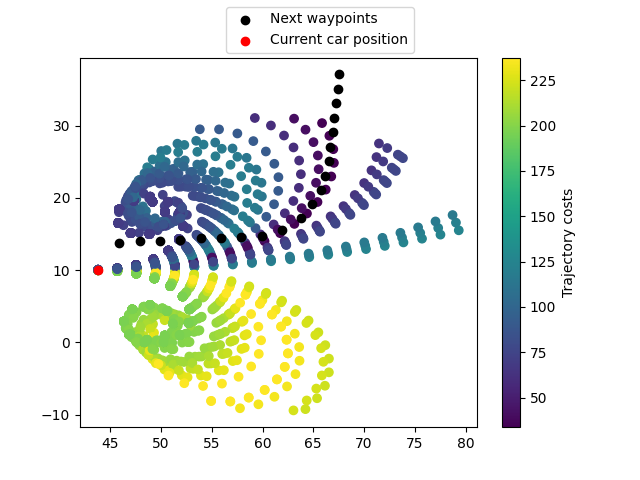
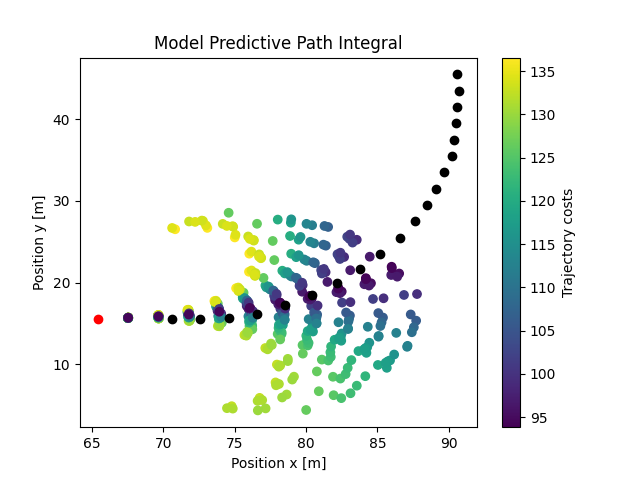
weighted avg solution plot

diff --git a/multi_step_mpc.py b/multi_step_mpc.py
@@ -1,33 +1,23 @@
 import numpy as np
-
-from cycler import cycler
 import math
-import matplotlib.pyplot as plt
-from scipy.interpolate import interp1d
-
 from car import Car
 from track import Track
 from constants import *
+import matplotlib.pyplot as plt
+# a = [1,2,3,4,5,6]
+# a.extend(a)
+# print(a)
 
-import shapely.geometry as geom
+# exit()
 
 def column(matrix, i):
         return [row[i] for row in matrix]
         
 
-# coords = [[coords_x[i], coords_y[i]] for i in range(len(coords_x))]
-# print(coords)
-# # coords = [[1,1], [2,1], [3,1]] 
-# line = geom.LineString(coords)
-# point = geom.Point(5,3)
-# print (point.distance(line))
 
-# exit()
-
-
-COVARIANCE = [[0.1, 0], [0, 0]] 
+COVARIANCE = [[0.1, 0], [0, 0.05]] 
 NUMBER_OF_TRAJECTORIES = 50
-DIST_TOLLERANCE = 8
+DIST_TOLLERANCE = 4
 
 
 def sample_control_inputs(control_input):
@@ -37,7 +27,7 @@ def sample_control_inputs(control_input):
 
     control_input_sequences = [0]*len(x)
     for i in range(len(x)):
-        control_input_sequences[i] = 20*[[round(x[i],3), round(y[i], 3)]]
+        control_input_sequences[i] = 10*[[round(x[i],3), round(y[i], 3)]]
     return control_input_sequences
 
 
@@ -63,7 +53,7 @@ last_control_input = [0,0]
 
 for i in range(200):
 
-    input_samples = u_dist
+    # input_samples = u_dist
     input_samples = sample_control_inputs(last_control_input)
     simulated_history = car.simulate_trajectory_distribution( input_samples )
 
@@ -88,12 +78,10 @@ for i in range(200):
 
 
     best_input = input_samples[best_index]
-
     inputs = np.array(column(input_samples,0))
-    print("Input samples",inputs)
-
-
-    print("Best input", best_input)
+   
+    # print("Input samples",inputs)
+    # print("Best input", best_input)
     
 
 
@@ -111,9 +99,9 @@ for i in range(200):
     # print( "total_weight", total_weight)
 
     weighted_avg_input = u_sum/total_weight
-    print("weighted avg input",  weighted_avg_input)
 
 
+   
     # exit()
     next_control_input = weighted_avg_input
     
@@ -134,9 +122,33 @@ for i in range(200):
     last_control_input = next_control_input
     last_control_input[0] = min(last_control_input[0], 1)
     last_control_input[1] = min(last_control_input[1], 0.5)
-    # print(car.state[3])
+
+    print(car.state[3])
+    
+
+    weighted_avg_trajectory = car.simulate_trajectory([next_control_input] *10)
+    print("next ctr input",  next_control_input)
+   
+    print("weighted_avg_trajectory",weighted_avg_trajectory)
+
+    plt = car.draw_simulated_history(waypoint_index)
+
+    weighted_avg_trajectories = car.simulated_history[-1]
+    t_x = []
+    t_y =[]
+    for trajectory in weighted_avg_trajectories:
+        t_x.append(trajectory[0])
+        t_y.append(trajectory[1])
+    print("Trajectory", t_x)
+
+    plt.scatter(t_x, t_y, c='#D94496', label="Weighted Average Solution")
+    fig = plt.gcf()
+    plt.legend(  fancybox=True, shadow=True, loc="best")
+    plt.savefig("weighted_avt_and_history.png")
+
+
     car.step(next_control_input)
-    car.draw_simulated_history(waypoint_index)
+
     car.draw_history()
 
 car.draw_history()

diff --git a/car.py b/car.py
@@ -11,6 +11,7 @@ from matplotlib import cm
 import matplotlib.pyplot as plt
 import numpy as np
 import shapely.geometry as geom
+import math
 
 
 from scipy.integrate import odeint
@@ -19,7 +20,7 @@ class Car:
     def __init__(self, track):
         self.parameters = parameters_vehicle2()
         # self.state = init_ks([0, 0, 0, 20, 0])
-        self.state = init_st([40, 10, 0, 10, 0, 0,0])
+        self.state = init_st([39.6, 15.6, 0, 10, 0, 0,0])
         # self.state = init_mb([419, 136, 0, 5, 0, 0,0,0, 0,0,0, 0,0,0, 0,0,0, 0,0,0, 0,0,0, 0,0,0, 0,0,0, 0,0,0, 0,0,0, 0,0], self.parameters)
         self.time = 0 #TODO:
         self.tControlSequence = 0.2  # [s] How long is a control input applied
@@ -83,18 +84,27 @@ class Car:
     def cost_function(self, trajectory, waypoint_index):
 
         #Next 30 points of the track
-        track = geom.LineString(self.track.waypoints[waypoint_index: waypoint_index + 30])
+        waypoint_modulus = self.track.waypoints.copy()
+        waypoint_modulus.extend(waypoint_modulus)
 
-        cost = 0
-        factor = 1
+        track = geom.LineString(waypoint_modulus[waypoint_index: waypoint_index + 107])
+
+        distance_cost = 0
+        speed_cost = 0
+
+        distance_cost_weight = 1
+        speed_cost_weight = 10000
+
         for state in trajectory:
             simulated_position = geom.Point(state[0],state[1])
             distance_to_track = simulated_position.distance(track)
-            
-            # closest_waypoint_index = self.track.get_closest_index([state[0], state[1]])
+            speed = state[3]
+            speed_cost += speed
+            distance_cost +=  distance_to_track
 
-            cost += factor * distance_to_track
-
+        speed_cost = 1 /speed_cost
+        # print("Spooedcost", speed_cost * speed_cost_weight)
+        cost = distance_cost_weight * distance_cost + speed_cost_weight * speed_cost
         return cost
 
 
@@ -149,7 +159,7 @@ class Car:
         #Draw car position
         p_x = self.state[0]
         p_y = self.state[1]
-        print("car state: ", self.state)
+        # print("car state: ", self.state)
         position_ax.scatter(p_x,p_y, c ="#FF0000", label="Current car position")
 
 
@@ -158,7 +168,7 @@ class Car:
         # velocity_ax.set_xticklabels(["Delta", "Speed", "Phi", "Phi Dot", "Beta"])
 
         index += 1
-        fig.legend()
+        
         plt.savefig('sim_history.png')
         return plt
 
@@ -180,8 +190,11 @@ class Car:
         index = 0
         color_index = format(int(255) , '02x') 
         color = "#5500%s" % (color_index)
-        plt.scatter(s_x,s_y, c=velocity, cmap = cm.jet)
+        scatter = plt.scatter(s_x,s_y, c=velocity, cmap = cm.jet)
         index += 1
+
+        colorbar = plt.colorbar(scatter)
+        colorbar.set_label('speed')
 
         plt.savefig('history.png')
     

diff --git a/track.py b/track.py
@@ -13,10 +13,10 @@ def squared_distance(p1, p2):
 class Track:
 
     def __init__(self):
-        # self.waypoints_x = 0.1 * np.array(oval_points_x)
-        # self.waypoints_y = 0.1 *  np.array(oval_points_y)
-        self.waypoints_x = 0.1 * np.array(track_2_points_x)
-        self.waypoints_y = 0.1 *  np.array(track_2_points_y)
+        self.waypoints_x = 0.1 * np.array(oval_points_x)
+        self.waypoints_y = 0.1 *  np.array(oval_points_y)
+        # self.waypoints_x = 0.1 * np.array(track_2_points_x)
+        # self.waypoints_y = 0.1 *  np.array(track_2_points_y)
         self.waypoints = [[self.waypoints_x[i], self.waypoints_y[i]] for i in range(len(self.waypoints_x))]
 
 
